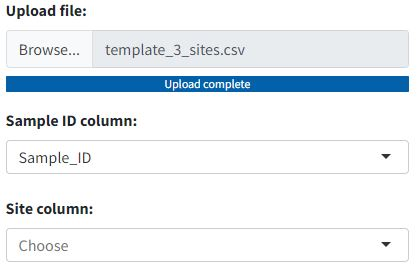
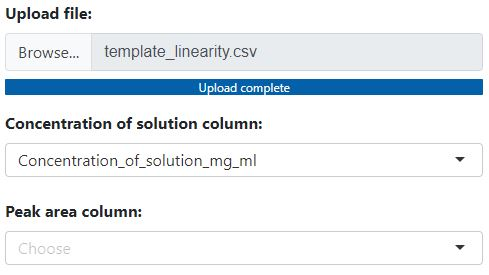
Update user instructions
- Update the text in the user instructions section
  - Replace screenshots with updated ones where needed

Changed region(s): [[0.0, 0.0, 0.9928, 0.3491], [0.0, 0.4073, 0.9928, 0.6691], [0.0, 0.7273, 0.9928, 0.9891]]

diff --git a/www/information.html b/www/information.html
@@ -59,8 +59,13 @@
   <li>Finally, the results can be downloaded in tabular form as a .docx file in 
     the "Download Report" tab.<br>
     <img src="Download_report.JPG" class="intro_img" alt="Download Report tab"><br></li>
-  <li>Enter a batch name, a file name and tick the boxes for all results to 
-    be included in the report.<br>
+  <li>Decide between a simplified and a detailed table of the assay results. If 
+    the option "Detailed Assay Results" is selected, a column with information 
+    about the concentration levels must be included in the uploaded data set.<br>
+    <img src="Det_result_switch.JPG" class="intro_img" alt="Detailed Result Switch"><br></li>
+  <li>Enter a file name and optionally provide concentration level information 
+    if the "Detailed Assay Results" option is selected. Tick the boxes for all 
+    results and plots to be included in the report.<br>
     <img src="Report_settings.JPG" class="intro_img" alt="Report settings"><br></li>
   <li>Confirm your entries and download the report by pressing the "Generate 
     Report" button.<br>
